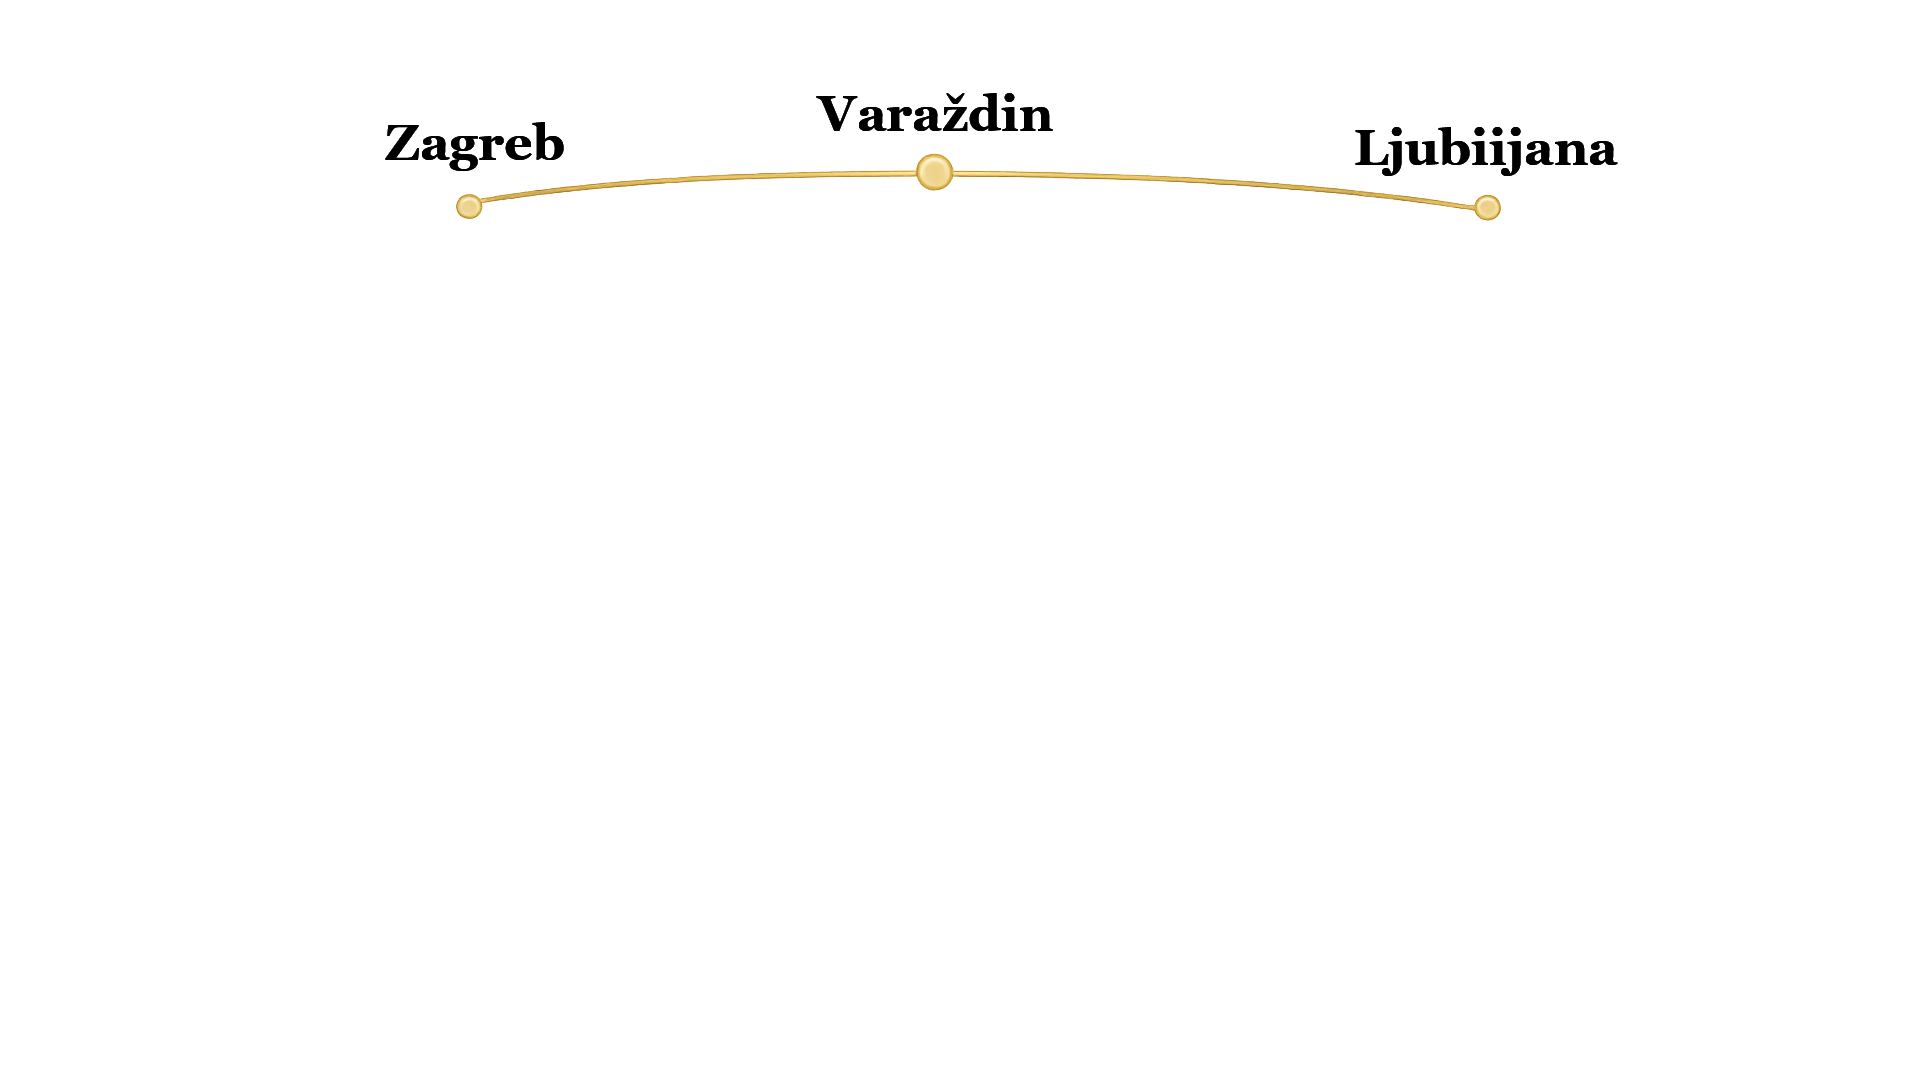
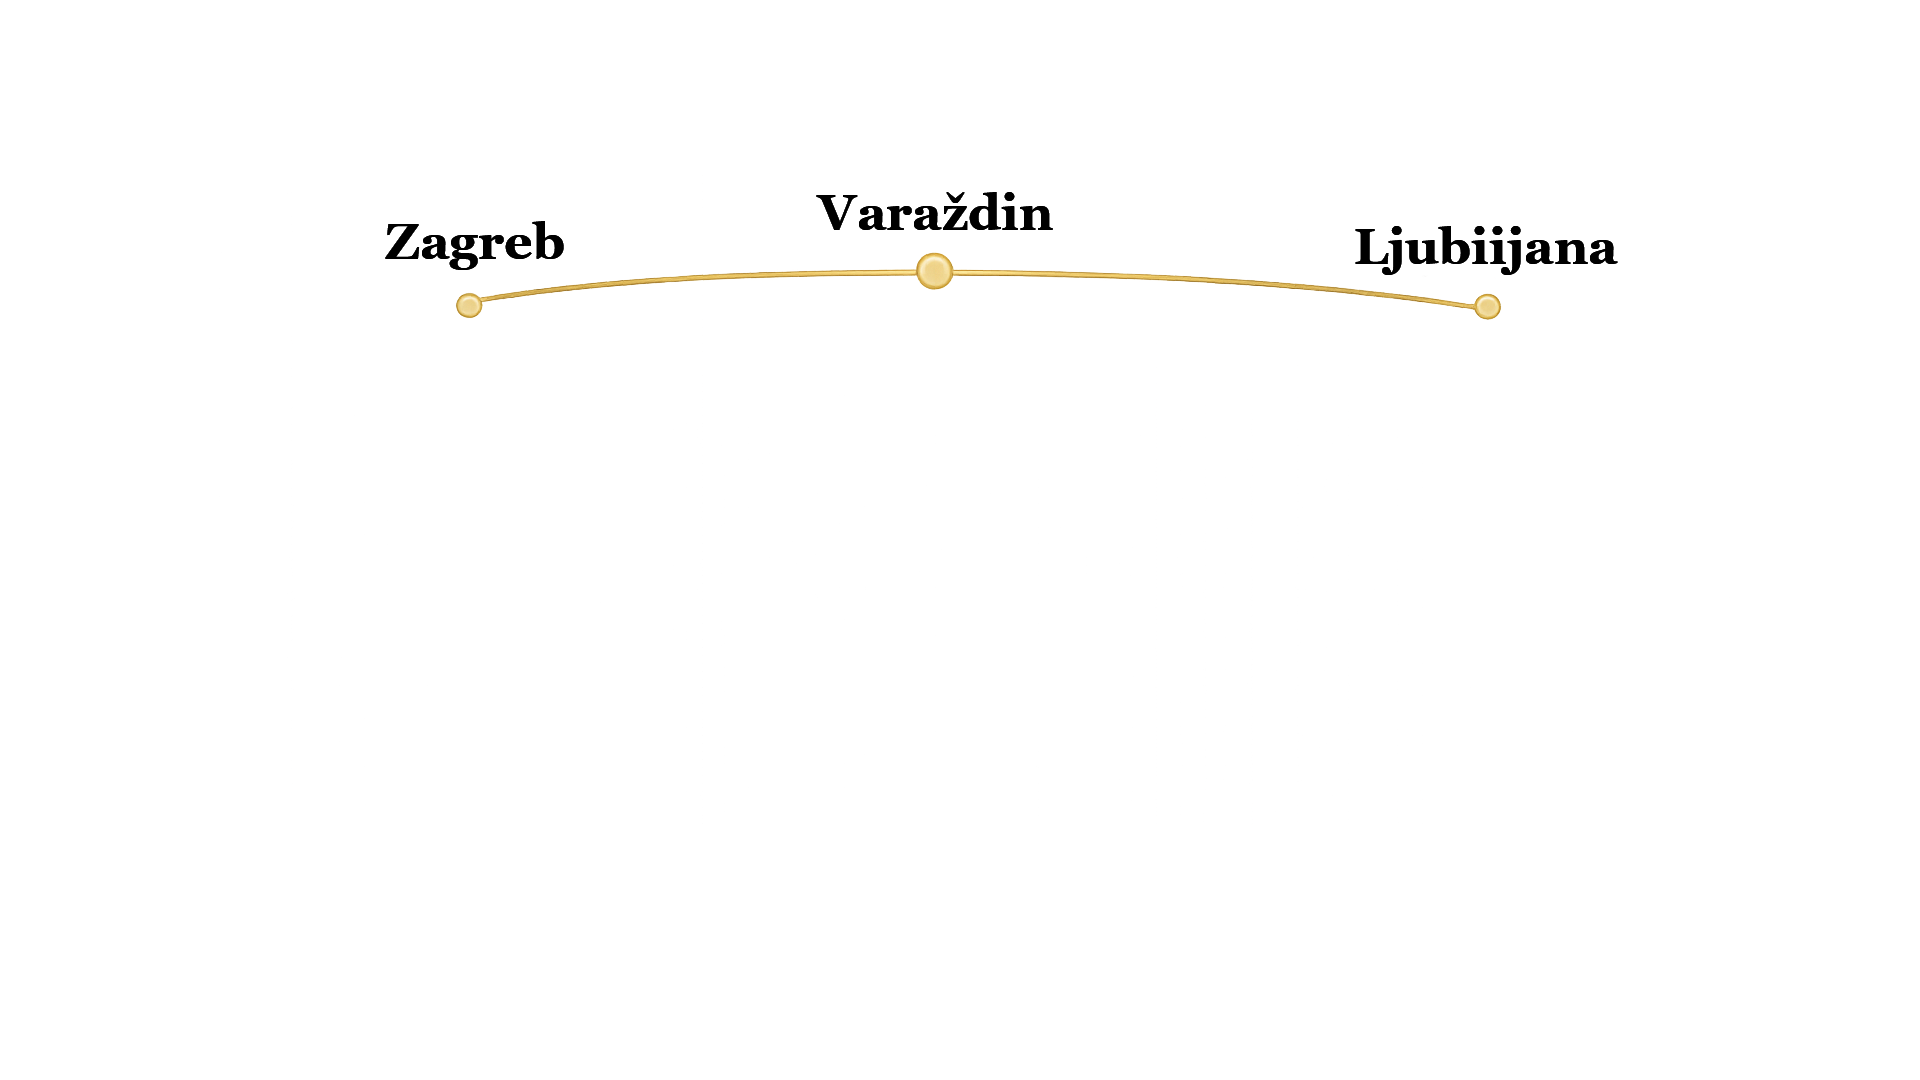
finetune

Changed region(s): [[0.1875, 0.0917, 0.8438, 0.3056], [0.2188, 0.275, 0.25, 0.3056]]

diff --git a/src/components/AquaCityPhase3.jsx b/src/components/AquaCityPhase3.jsx
@@ -20,6 +20,8 @@ export default function AquaCityPhase3() {
       { opacity: 0 }, { opacity: 1, ease: 'none', duration: 0.06 }, 0.02)
     tl.fromTo(cardRef.current,
       { opacity: 0, y: 18 }, { opacity: 1, y: 0, ease: 'none', duration: 0.10 }, 0.04)
+    tl.to(cardRef.current,
+      { opacity: 0, x: 60, rotation: 1.5, ease: 'none', duration: 0.09 }, 0.91)
     tl.to({}, { duration: 0 }, 1)
     return () => ScrollTrigger.getAll().forEach((t) => t.kill())
   }, [])

diff --git a/src/components/AquaCityPhase1.jsx b/src/components/AquaCityPhase1.jsx
@@ -20,6 +20,8 @@ export default function AquaCityPhase1() {
       { opacity: 0 }, { opacity: 1, ease: 'none', duration: 0.06 }, 0.02)
     tl.fromTo(cardRef.current,
       { opacity: 0, y: 18 }, { opacity: 1, y: 0, ease: 'none', duration: 0.10 }, 0.04)
+    tl.to(cardRef.current,
+      { opacity: 0, y: 45, scale: 0.96, ease: 'none', duration: 0.08 }, 0.92)
     tl.to({}, { duration: 0 }, 1)
     return () => ScrollTrigger.getAll().forEach((t) => t.kill())
   }, [])

diff --git a/src/components/AquaCityPhase4.jsx b/src/components/AquaCityPhase4.jsx
@@ -20,6 +20,8 @@ export default function AquaCityPhase4() {
       { opacity: 0 }, { opacity: 1, ease: 'none', duration: 0.06 }, 0.02)
     tl.fromTo(cardRef.current,
       { opacity: 0, y: 18 }, { opacity: 1, y: 0, ease: 'none', duration: 0.10 }, 0.04)
+    tl.to(cardRef.current,
+      { opacity: 0, y: -40, x: -20, ease: 'none', duration: 0.08 }, 0.92)
     tl.to({}, { duration: 0 }, 1)
     return () => ScrollTrigger.getAll().forEach((t) => t.kill())
   }, [])

diff --git a/src/components/AquaCityPhase2.jsx b/src/components/AquaCityPhase2.jsx
@@ -20,6 +20,8 @@ export default function AquaCityPhase2() {
       { opacity: 0 }, { opacity: 1, ease: 'none', duration: 0.06 }, 0.02)
     tl.fromTo(cardRef.current,
       { opacity: 0, y: 18 }, { opacity: 1, y: 0, ease: 'none', duration: 0.10 }, 0.04)
+    tl.to(cardRef.current,
+      { opacity: 0, y: 40, x: -20, ease: 'none', duration: 0.08 }, 0.92)
     tl.to({}, { duration: 0 }, 1)
     return () => ScrollTrigger.getAll().forEach((t) => t.kill())
   }, [])

diff --git a/src/components/AquaCityIntro.jsx b/src/components/AquaCityIntro.jsx
@@ -17,6 +17,8 @@ export default function AquaCityIntro() {
     })
     tl.fromTo(cardRef.current,
       { opacity: 0, y: 18 }, { opacity: 1, y: 0, ease: 'none', duration: 0.10 }, 0.03)
+    tl.to(cardRef.current,
+      { opacity: 0, y: 40, scale: 0.95, ease: 'none', duration: 0.08 }, 0.92)
     tl.to({}, { duration: 0 }, 1) // anchor timeline to full scroll range
     return () => ScrollTrigger.getAll().forEach((t) => t.kill())
   }, [])

diff --git a/src/components/AquaCityLocation.jsx b/src/components/AquaCityLocation.jsx
@@ -17,6 +17,8 @@ export default function AquaCityLocation() {
     })
     tl.fromTo(cardRef.current,
       { opacity: 0, y: 18 }, { opacity: 1, y: 0, ease: 'none', duration: 0.10 }, 0.03)
+    tl.to(cardRef.current,
+      { opacity: 0, x: -50, rotation: -1.5, ease: 'none', duration: 0.09 }, 0.91)
     tl.to({}, { duration: 0 }, 1)
     return () => ScrollTrigger.getAll().forEach((t) => t.kill())
   }, [])

diff --git a/src/components/AquaCityVision.jsx b/src/components/AquaCityVision.jsx
@@ -17,6 +17,8 @@ export default function AquaCityVision() {
     })
     tl.fromTo(cardRef.current,
       { opacity: 0, y: 18 }, { opacity: 1, y: 0, ease: 'none', duration: 0.10 }, 0.03)
+    tl.to(cardRef.current,
+      { opacity: 0, y: -35, scale: 1.04, ease: 'none', duration: 0.08 }, 0.92)
     tl.to({}, { duration: 0 }, 1)
     return () => ScrollTrigger.getAll().forEach((t) => t.kill())
   }, [])

diff --git a/src/components/AquaCityProblem.jsx b/src/components/AquaCityProblem.jsx
@@ -17,6 +17,8 @@ export default function AquaCityProblem() {
     })
     tl.fromTo(cardRef.current,
       { opacity: 0, y: 18 }, { opacity: 1, y: 0, ease: 'none', duration: 0.10 }, 0.03)
+    tl.to(cardRef.current,
+      { opacity: 0, x: -60, ease: 'none', duration: 0.08 }, 0.92)
     tl.to({}, { duration: 0 }, 1)
     return () => ScrollTrigger.getAll().forEach((t) => t.kill())
   }, [])
